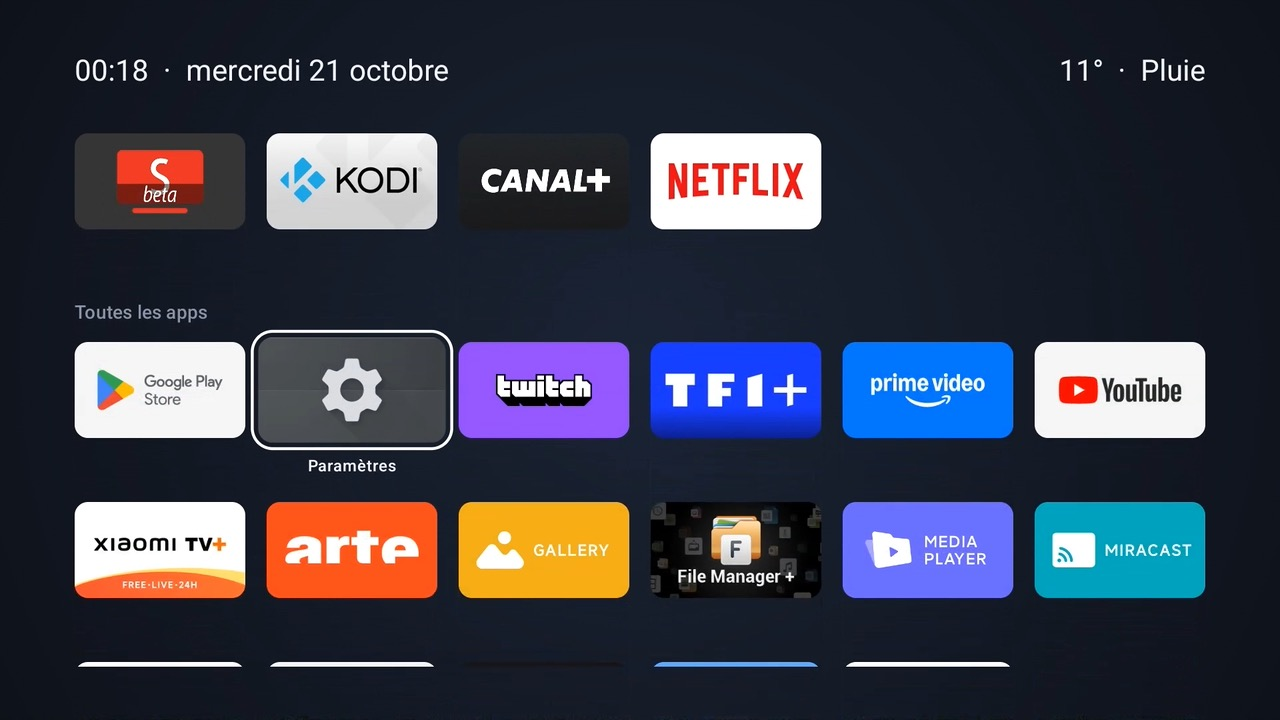
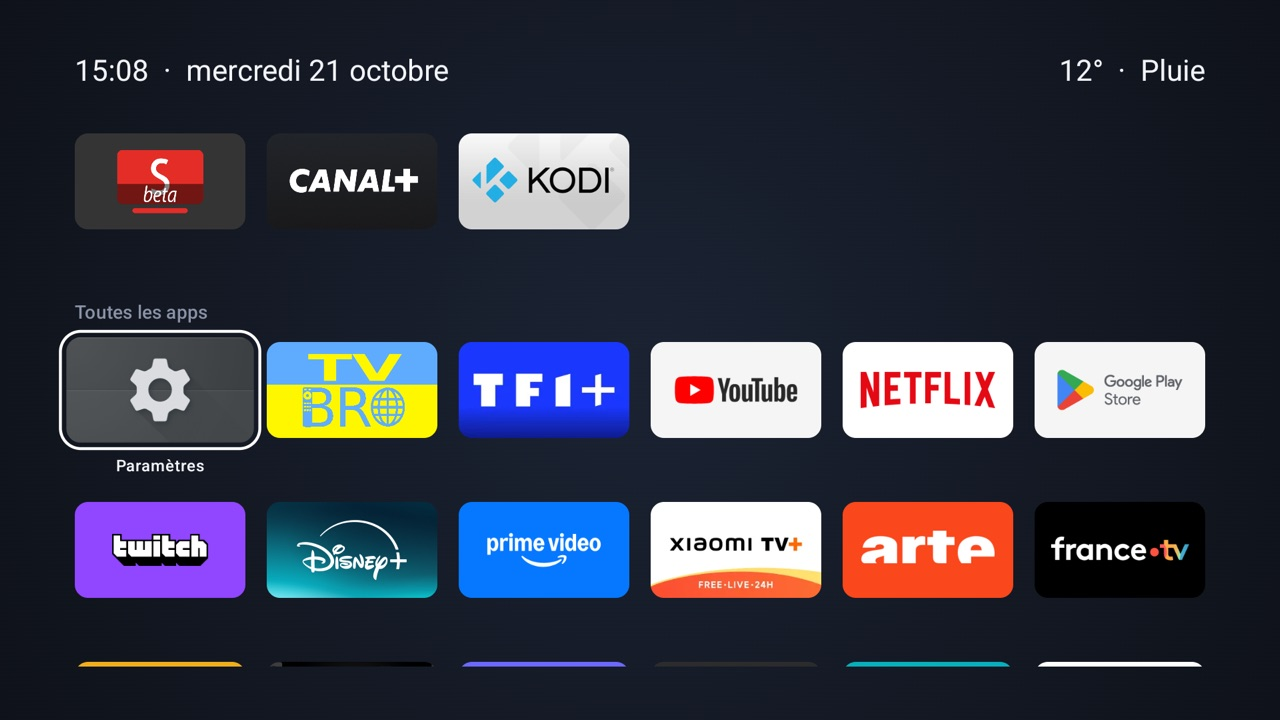
Refresh README screenshots for 1.4
New captures of the home, expanded view and long-press menu, plus the
screen time dialog, the phone remote and its pairing dialog (address,
code and QR code blurred).

diff --git a/README.md b/README.md
@@ -12,7 +12,13 @@ identiques, la vidéo est donc plus rapide que la réalité).
 |---|---|
 | ![Accueil : grande horloge, météo et barre de favoris](docs/home.jpg) | ![Vue étendue : widgets réduits et toutes les apps](docs/expanded.jpg) |
 
-![Menu de l'appui long sur une app](docs/menu.jpg)
+| Appui long sur une app | Temps d'écran |
+|---|---|
+| ![Menu de l'appui long : favoris, masquer, infos, désinstaller](docs/menu.jpg) | ![Temps d'écran par app](docs/screen-time.jpg) |
+
+| Télécommande sur le téléphone | Appairage depuis la TV |
+|---|---|
+| <img src="docs/phone-remote.jpg" alt="Télécommande sur le téléphone : croix directionnelle, volume, médias et apps" width="300"> | ![Dialogue Télécommande avec QR code d'appairage (adresse et code floutés)](docs/remote-dialog.jpg) |
 
 - **Accueil** : grande horloge, météo détaillée (Open-Meteo, sans clé) et barre de 6 favoris en bas de l'écran.
 - **Vue étendue** (flèche bas depuis la barre) : la page défile vers le haut, les widgets passent en version
